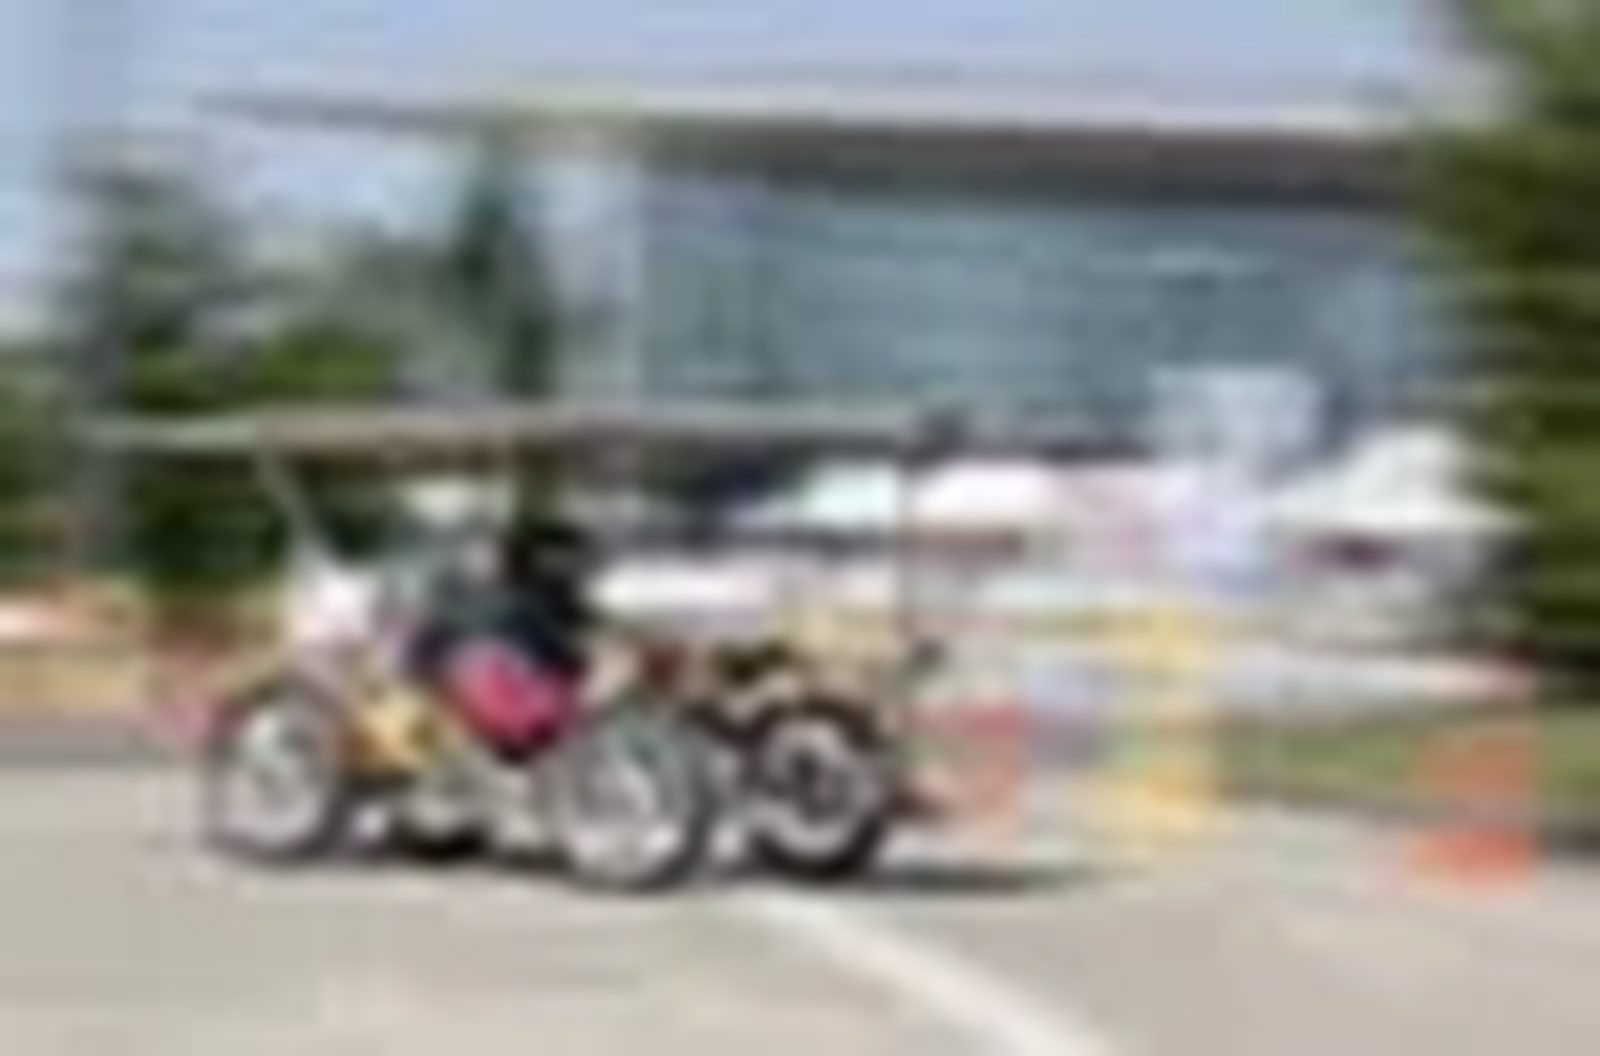
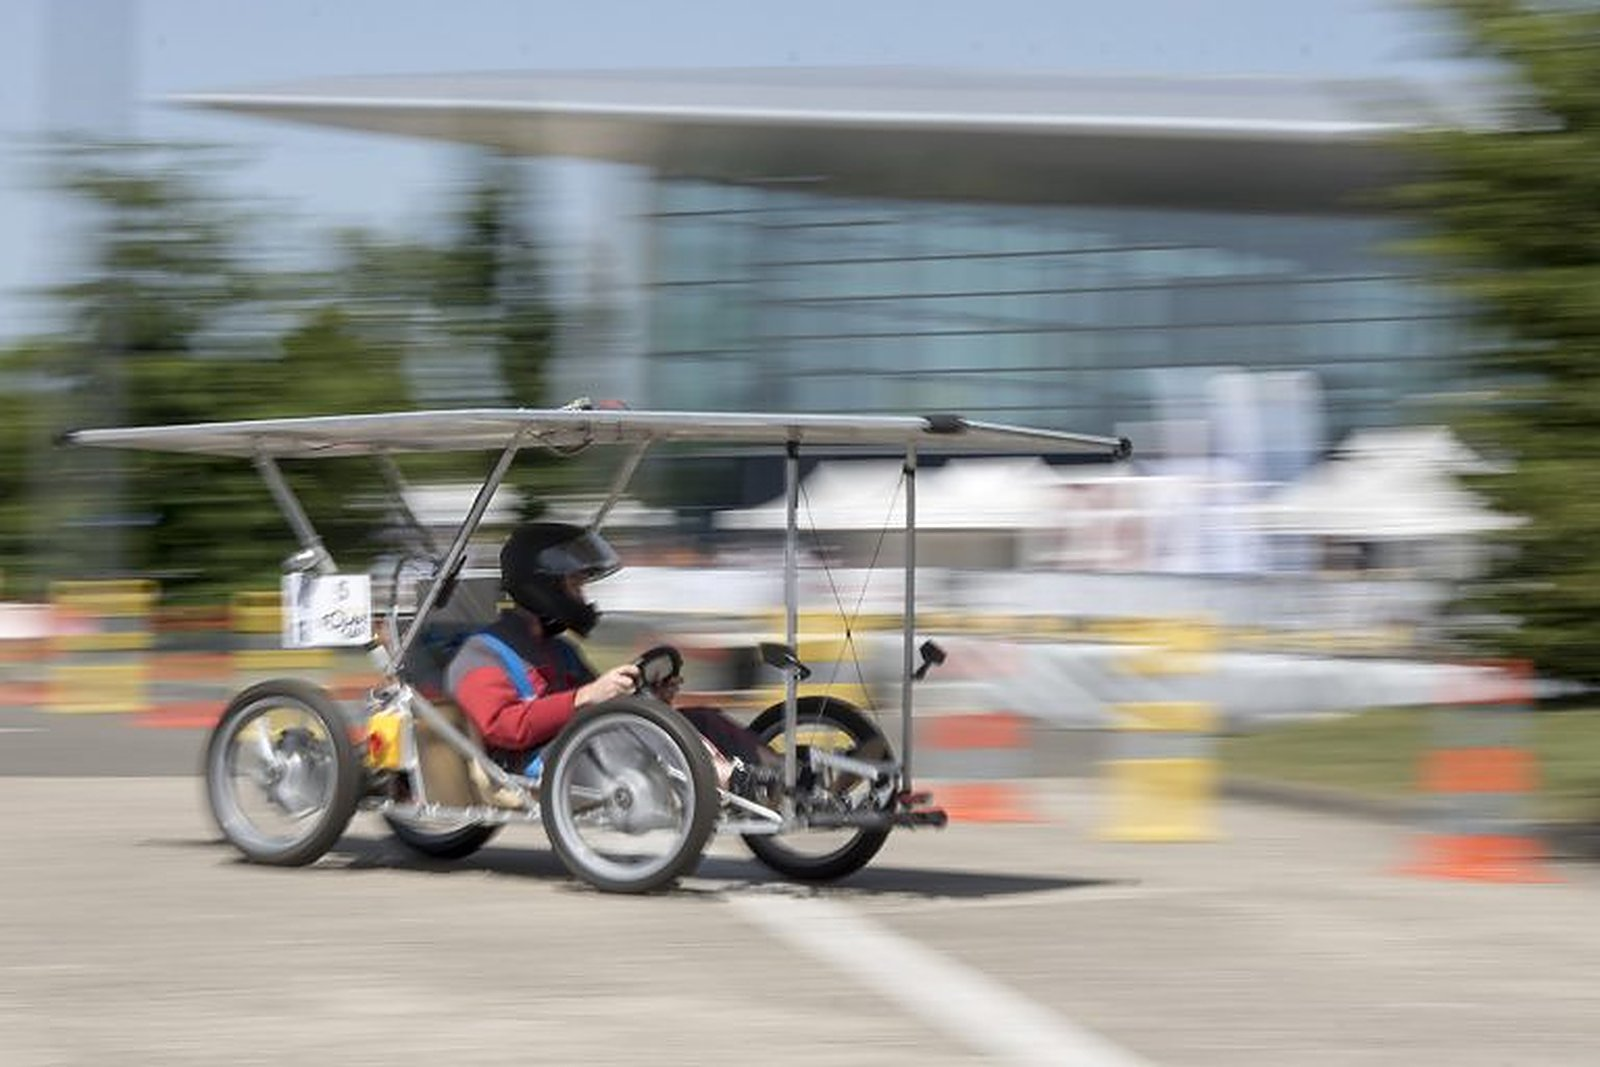
Nouvelle photo de la voiture solaire en fond

diff --git a/style.css b/style.css
@@ -81,8 +81,8 @@ p { margin: 0; max-width: 65ch; }
 
 /* Haut de page avec photo en fond : toujours sombre pour que le texte reste lisible */
 .hero.photo { position: relative; isolation: isolate; overflow: hidden; min-height: min(88vh, 820px); display: grid; align-content: center; padding-block: 112px 88px; background: #000; color: #F5F5F7; }
-.hero.photo::before { content: ""; position: absolute; inset: 0; z-index: -2; background: url("images/hero-voiture-solaire.jpg") center / cover no-repeat; transform: scale(1.06); }
-.hero.photo::after { content: ""; position: absolute; inset: 0; z-index: -1; background: linear-gradient(180deg, rgba(0, 0, 0, .55) 0%, rgba(0, 0, 0, .42) 45%, rgba(0, 0, 0, .82) 100%); }
+.hero.photo::before { content: ""; position: absolute; inset: 0; z-index: -2; background: url("images/hero-voiture-solaire.jpg") 35% center / cover no-repeat; transform: scale(1.06); }
+.hero.photo::after { content: ""; position: absolute; inset: 0; z-index: -1; background: linear-gradient(180deg, rgba(0, 0, 0, .55) 0%, rgba(0, 0, 0, .38) 50%, rgba(0, 0, 0, .7) 100%); }
 .hero.photo h1 { text-shadow: 0 2px 30px rgba(0, 0, 0, .35); }
 .hero.photo .eyebrow, .hero.photo .sub { color: rgba(245, 245, 247, .85); }
 .hero.photo .label { color: rgba(245, 245, 247, .7); }
